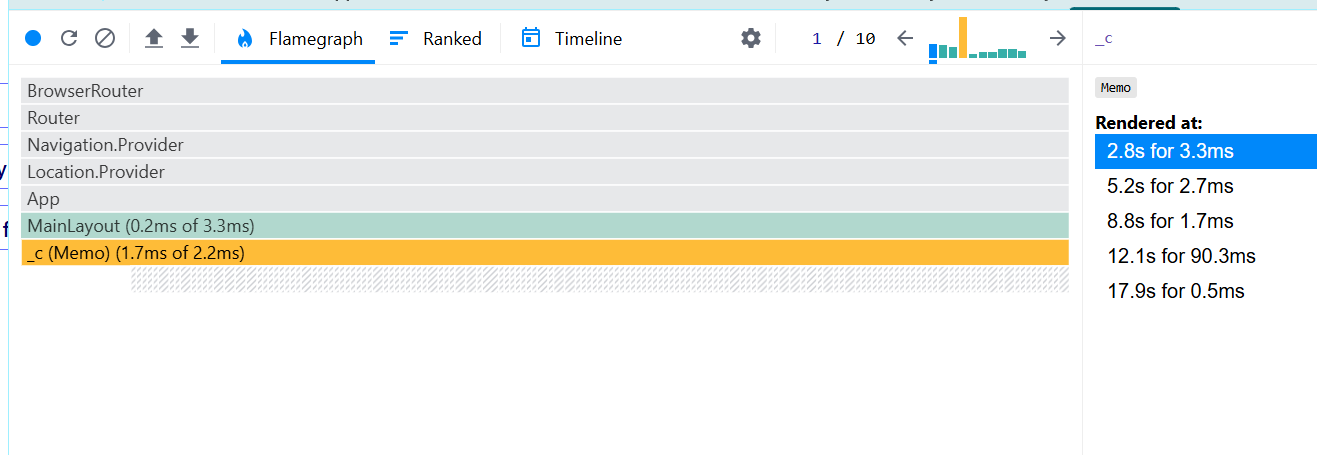
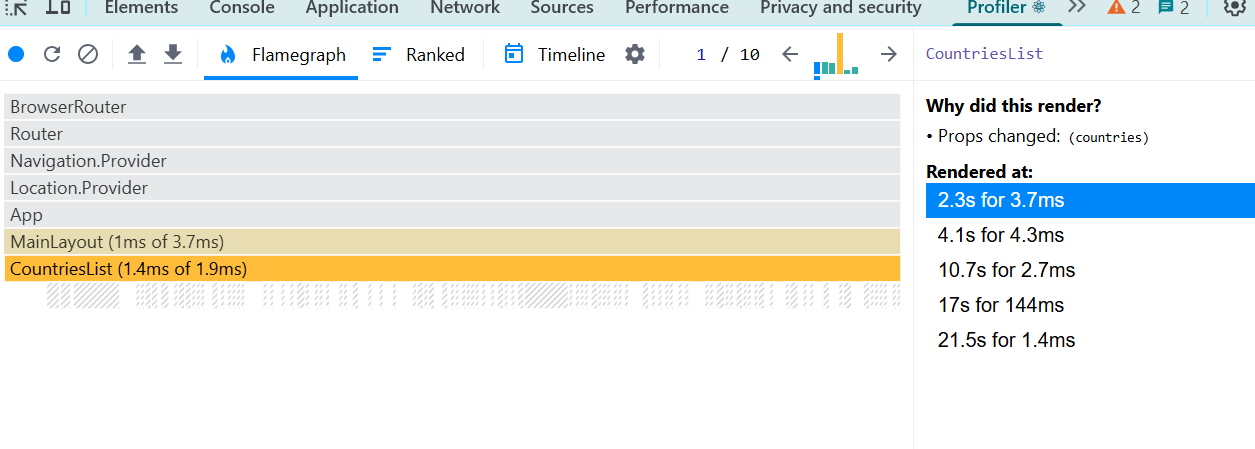
fix: fix readme

Changed region(s): [[0.0, 0.1559, 1.0, 0.7171], [0.0, 0.0, 1.0, 0.1871], [0.7458, 0.7171, 0.8701, 0.7795]]

diff --git a/README.md b/README.md
@@ -35,22 +35,24 @@ Here's the rendering time for key components:
 Below are the performance metrics recorded using the React DevTools Profiler after the optimization (adding React.memo to `CountriesList` and `CountryItem` components and adding `useCallback`and `useMemo` to filter functions):
 
 ### Commit Duration
-- The application committed updates in **1.8 seconds**.
+- The application committed updates in **1.9 seconds**.
 
 ### Render Duration
-- Total time taken to render components: **5.8ms**.
+- Total time taken to render components: **7.7ms**.
 
 ## Component-Level Breakdown
 Here's the rendering time for key components:
-- **MainLayout**: **1.9ms**
-- **CountriesList**: **2ms**
+- **MainLayout**: **2.2ms**
+- **CountriesList**: **2.7ms**
+- **Tools**: **1ms**
+  ![initial_after.png](initial_after.png)
 
 ### Render Duration of CountriesList by Interactions:
-- **Sort by population**: **1.8s for 5.8ms**
-- **Sort by name**: **3.7s for 3.9ms**
-- **Filter by region**: **7.3s for 2.8ms**
-- **Reset**: **9s for 94.6ms**
-- **Search by word**: **12.7s for 1.2ms**
+- **Sort by population**: **2.3s for 3.7ms**
+- **Sort by name**: **4.1s for 4.3ms**
+- **Filter by region**: **10.7s for 2.7ms**
+- **Reset**: **17s for 144ms**
+- **Search by word**: **21.5s for 1.4ms**
 
 ![FG_after.png](FG_after.png)
 ![RANKED_after.png](RANKED_after.png)
